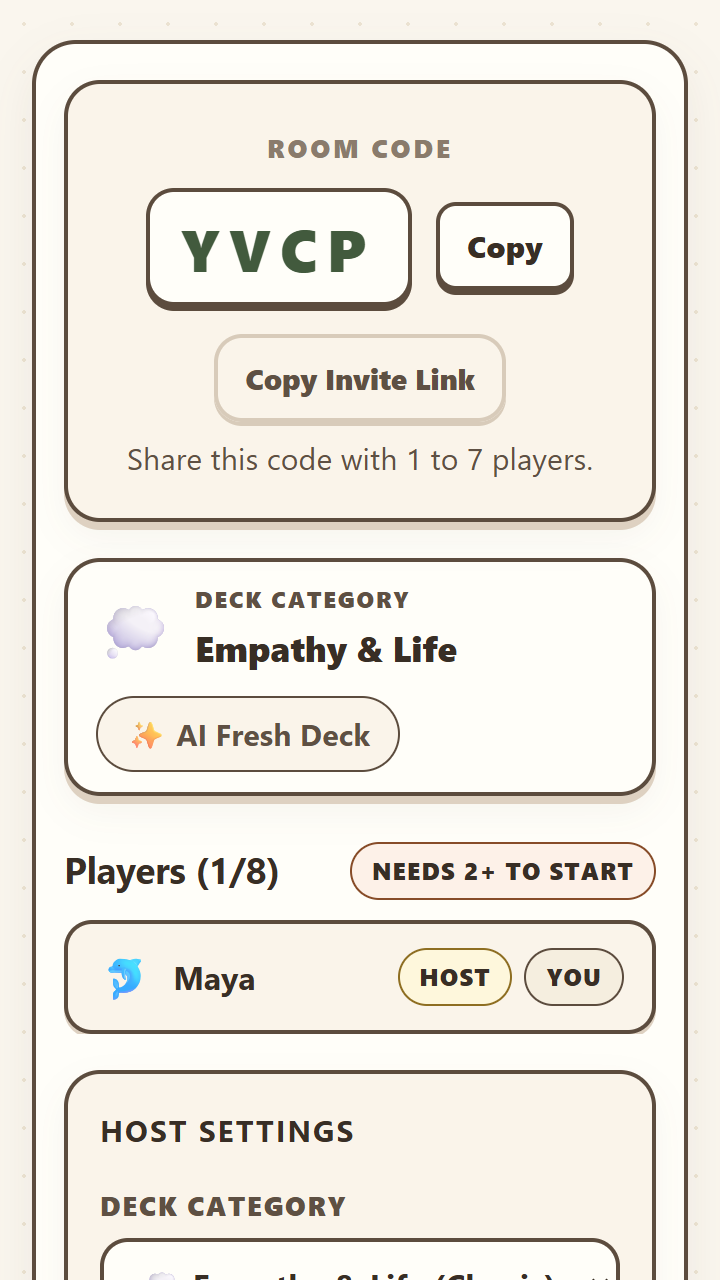
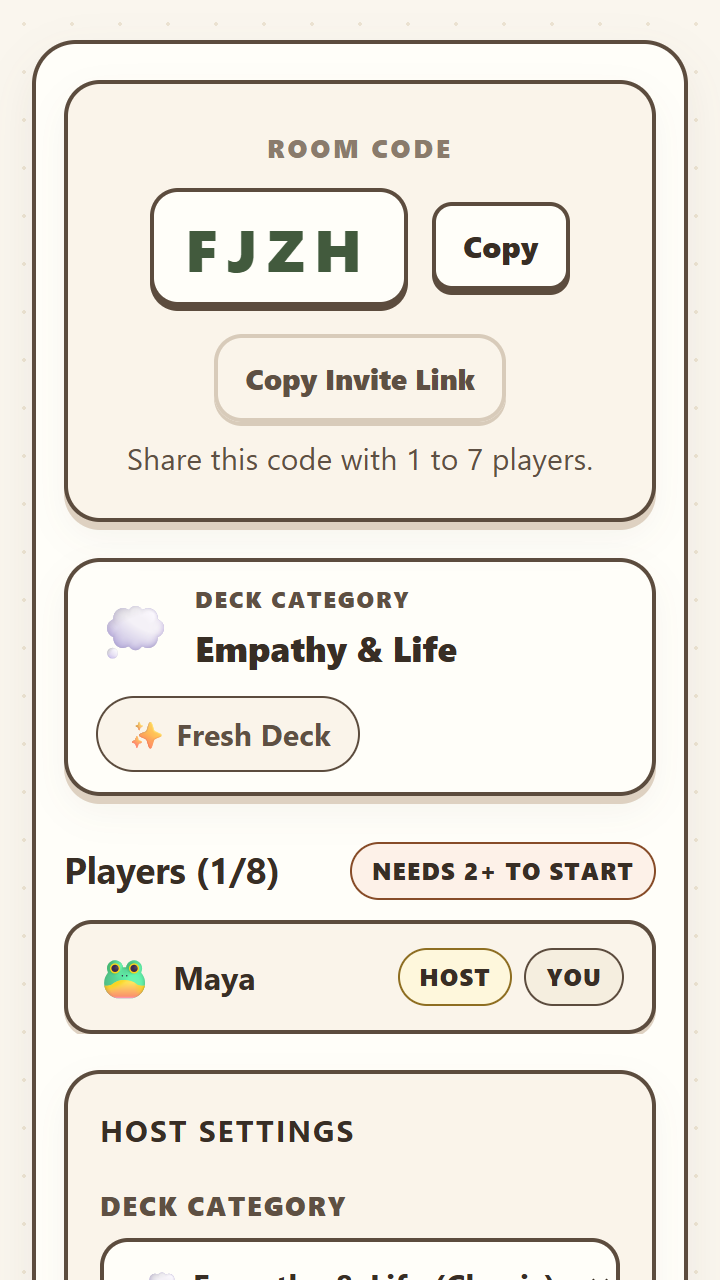
fix(deploy): add graceful SIGTERM shutdown handler for Render and sanitize UI copy

diff --git a/public/index.html b/public/index.html
@@ -472,7 +472,7 @@
         <div class="card form-card">
           <button class="btn-back" data-back="view-play-menu">← Back</button>
           <h2>Host a New Game</h2>
-          <p class="subtitle">Pick your topic pack or generate a live AI deck!</p>
+          <p class="subtitle">Pick your favorite topic pack or create a custom theme!</p>
 
           <form id="form-host">
             <div class="input-group">
@@ -527,7 +527,7 @@
                 </button>
                 <button type="button" class="category-card-btn" data-category="custom">
                   <span class="cat-icon">✨</span>
-                  <span class="cat-name">Custom AI</span>
+                  <span class="cat-name">Custom Theme</span>
                   <span class="cat-badge">Any Topic</span>
                 </button>
               </div>
@@ -535,16 +535,16 @@
 
             <!-- Custom Topic Input -->
             <div id="host-custom-topic-group" class="input-group hidden">
-              <label for="host-custom-topic">Custom AI Topic Prompt</label>
-              <input type="text" id="host-custom-topic" maxlength="80" placeholder="e.g. Marvel Cinematic Universe, 90s Cartoons..." autocomplete="off">
-              <small class="helper-text">Gemini AI will craft a bespoke 10-round deck for this theme!</small>
+              <label for="host-custom-topic">Custom Theme or Topic</label>
+              <input type="text" id="host-custom-topic" maxlength="80" placeholder="e.g. Marvel Universe, 90s Cartoons, Formula 1..." autocomplete="off">
+              <small class="helper-text">Generates a bespoke 10-round deck for this theme!</small>
             </div>
 
-            <!-- AI Fresh Deck Generator Toggle -->
+            <!-- Fresh Rounds Generator Toggle -->
             <div class="toggle-row ai-toggle-row">
               <div class="toggle-info">
-                <span class="toggle-title">✨ AI Fresh Generation</span>
-                <span class="toggle-desc">Generate unique unrepeated rounds dynamically with Google Gemini</span>
+                <span class="toggle-title">✨ Fresh Round Generator</span>
+                <span class="toggle-desc">Generate brand-new, unrepeated rounds for every game</span>
               </div>
               <label class="switch">
                 <input type="checkbox" id="host-setting-ai" checked>
@@ -607,7 +607,7 @@
                 <span class="topic-title" id="lobby-topic-title">Empathy & Life</span>
               </div>
             </div>
-            <span class="topic-badge" id="lobby-topic-badge">✨ AI Fresh Deck</span>
+            <span class="topic-badge" id="lobby-topic-badge">✨ Fresh Deck</span>
           </div>
 
           <div class="lobby-players-section">
@@ -635,19 +635,19 @@
                 <option value="cars">🏎 Cars & Automotive</option>
                 <option value="planes">✈ Planes & Aviation</option>
                 <option value="popculture">🎬 Pop Culture & Anime</option>
-                <option value="custom">✨ Custom AI Topic...</option>
+                <option value="custom">✨ Custom Theme...</option>
               </select>
             </div>
 
             <div id="lobby-custom-topic-input-row" class="input-group hidden">
-              <label for="lobby-custom-topic-input">Custom Topic Prompt</label>
-              <input type="text" id="lobby-custom-topic-input" maxlength="80" placeholder="e.g. Formula 1, Marvel MCU..." autocomplete="off">
+              <label for="lobby-custom-topic-input">Custom Theme or Topic</label>
+              <input type="text" id="lobby-custom-topic-input" maxlength="80" placeholder="e.g. Formula 1, Marvel Universe..." autocomplete="off">
             </div>
 
             <div class="toggle-row">
               <div class="toggle-info">
-                <span class="toggle-title">✨ AI Fresh Generation</span>
-                <span class="toggle-desc">Generate unrepeated live rounds with Gemini</span>
+                <span class="toggle-title">✨ Fresh Round Generator</span>
+                <span class="toggle-desc">Generate brand-new, unrepeated rounds for every game</span>
               </div>
               <label class="switch">
                 <input type="checkbox" id="setting-ai-deck" checked>

diff --git a/server.js b/server.js
@@ -1449,8 +1449,37 @@ const pingInterval = setInterval(() => {
 }, 25000);
 pingInterval.unref();
 
-wss.on('close', () => {
+// Graceful shutdown handling (Render / Cloud container lifecycle)
+function gracefulShutdown(signal) {
+  console.log(`[Server] Received ${signal}. Closing HTTP and WebSocket server gracefully...`);
   clearInterval(pingInterval);
+  clearInterval(cleanupInterval);
+  wss.clients.forEach((ws) => {
+    try {
+      ws.close(1001, 'Server shutting down');
+    } catch {}
+  });
+  wss.close(() => {
+    server.close(() => {
+      console.log('[Server] Closed successfully.');
+      process.exit(0);
+    });
+  });
+  setTimeout(() => {
+    console.warn('[Server] Forcing shutdown after timeout.');
+    process.exit(0);
+  }, 5000).unref();
+}
+
+process.on('SIGTERM', () => gracefulShutdown('SIGTERM'));
+process.on('SIGINT', () => gracefulShutdown('SIGINT'));
+
+process.on('uncaughtException', (err) => {
+  console.error('[Server] Uncaught exception:', err);
+});
+
+process.on('unhandledRejection', (reason, promise) => {
+  console.error('[Server] Unhandled rejection at:', promise, 'reason:', reason);
 });
 
 // Start listening when run directly

diff --git a/public/client.js b/public/client.js
@@ -385,7 +385,7 @@
     cars: { icon: '🏎', name: 'Cars & Automotive', badge: 'Speed' },
     planes: { icon: '✈', name: 'Planes & Aviation', badge: 'Aero' },
     popculture: { icon: '🎬', name: 'Pop Culture & Anime', badge: 'Fandom' },
-    custom: { icon: '✨', name: 'Custom AI Topic', badge: 'AI Deck' }
+    custom: { icon: '✨', name: 'Custom Theme', badge: 'Custom' }
   };
 
   // Question Elements
@@ -694,7 +694,7 @@
 
       if (lobbyTopicIcon) lobbyTopicIcon.textContent = meta.icon;
       if (lobbyTopicTitle) lobbyTopicTitle.textContent = customTopic ? `Custom: ${customTopic}` : meta.name;
-      if (lobbyTopicBadge) lobbyTopicBadge.textContent = isAi ? '✨ AI Fresh Deck' : '📦 Curated Pack';
+      if (lobbyTopicBadge) lobbyTopicBadge.textContent = isAi ? '✨ Fresh Deck' : '📦 Curated Pack';
 
       if (isHost) {
         lobbySettingsPanel.classList.remove('hidden');
